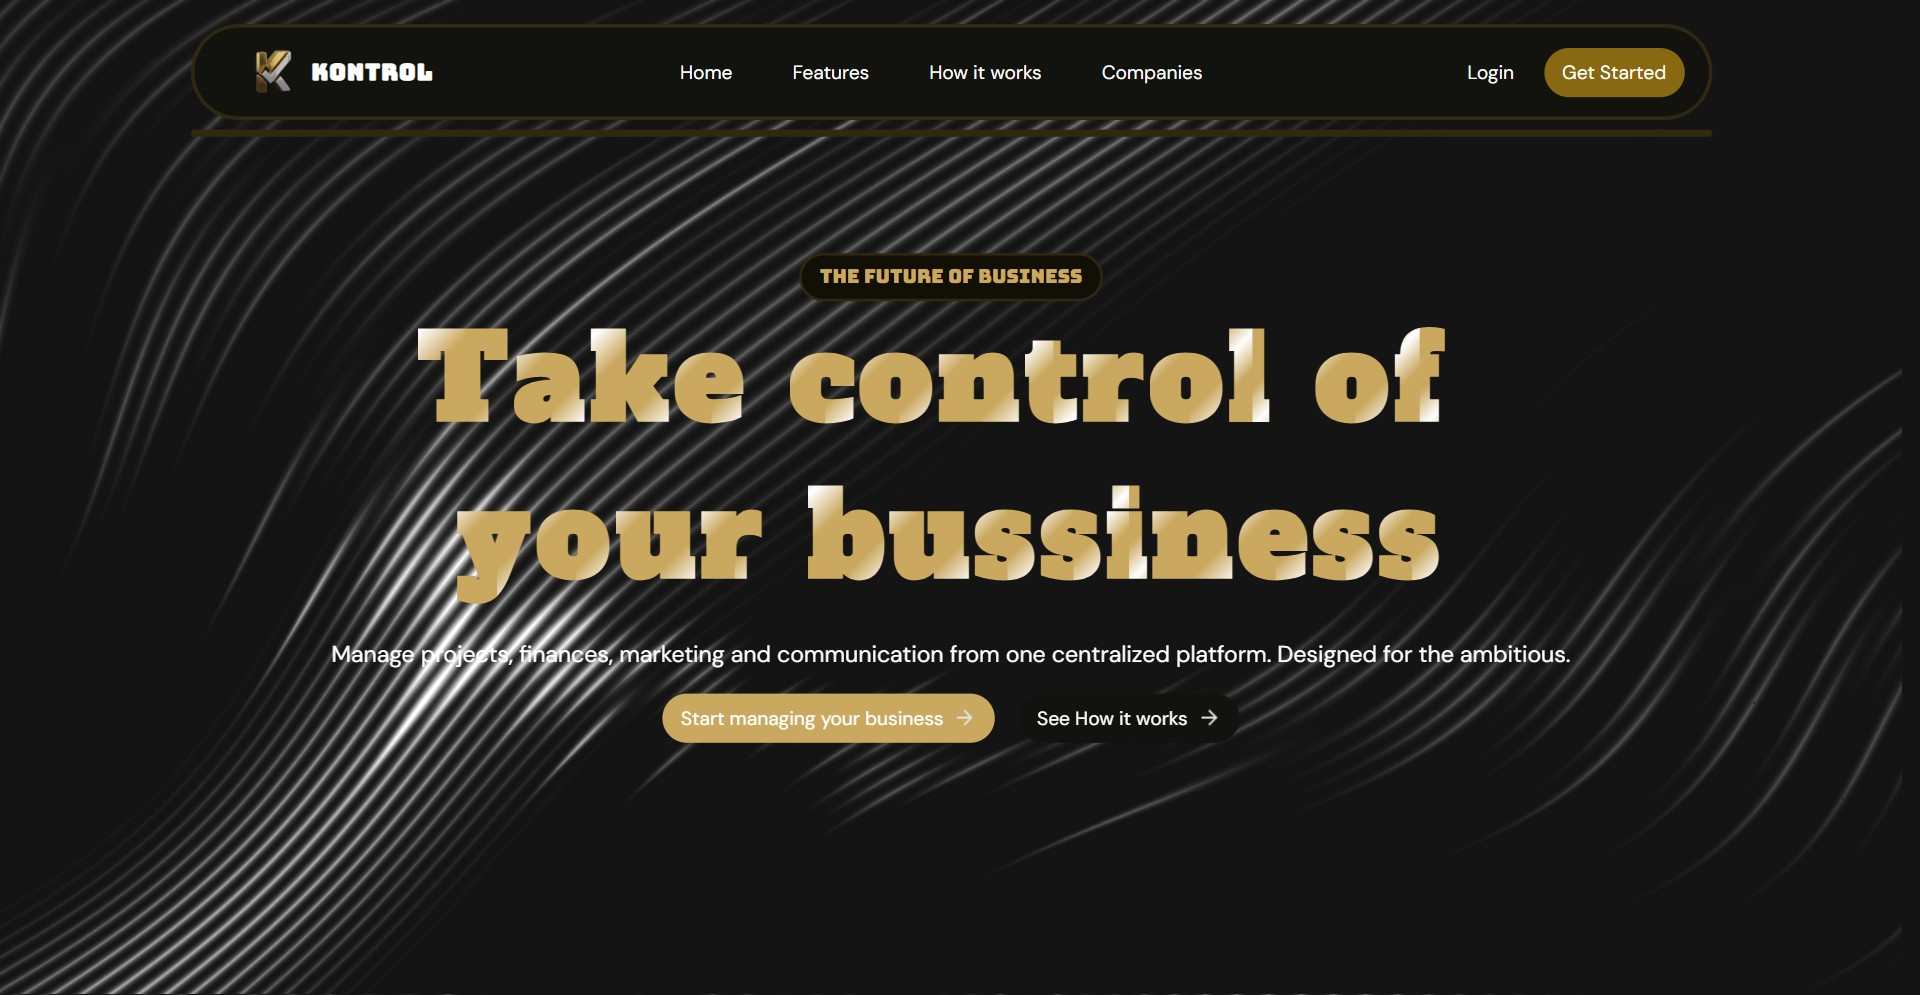
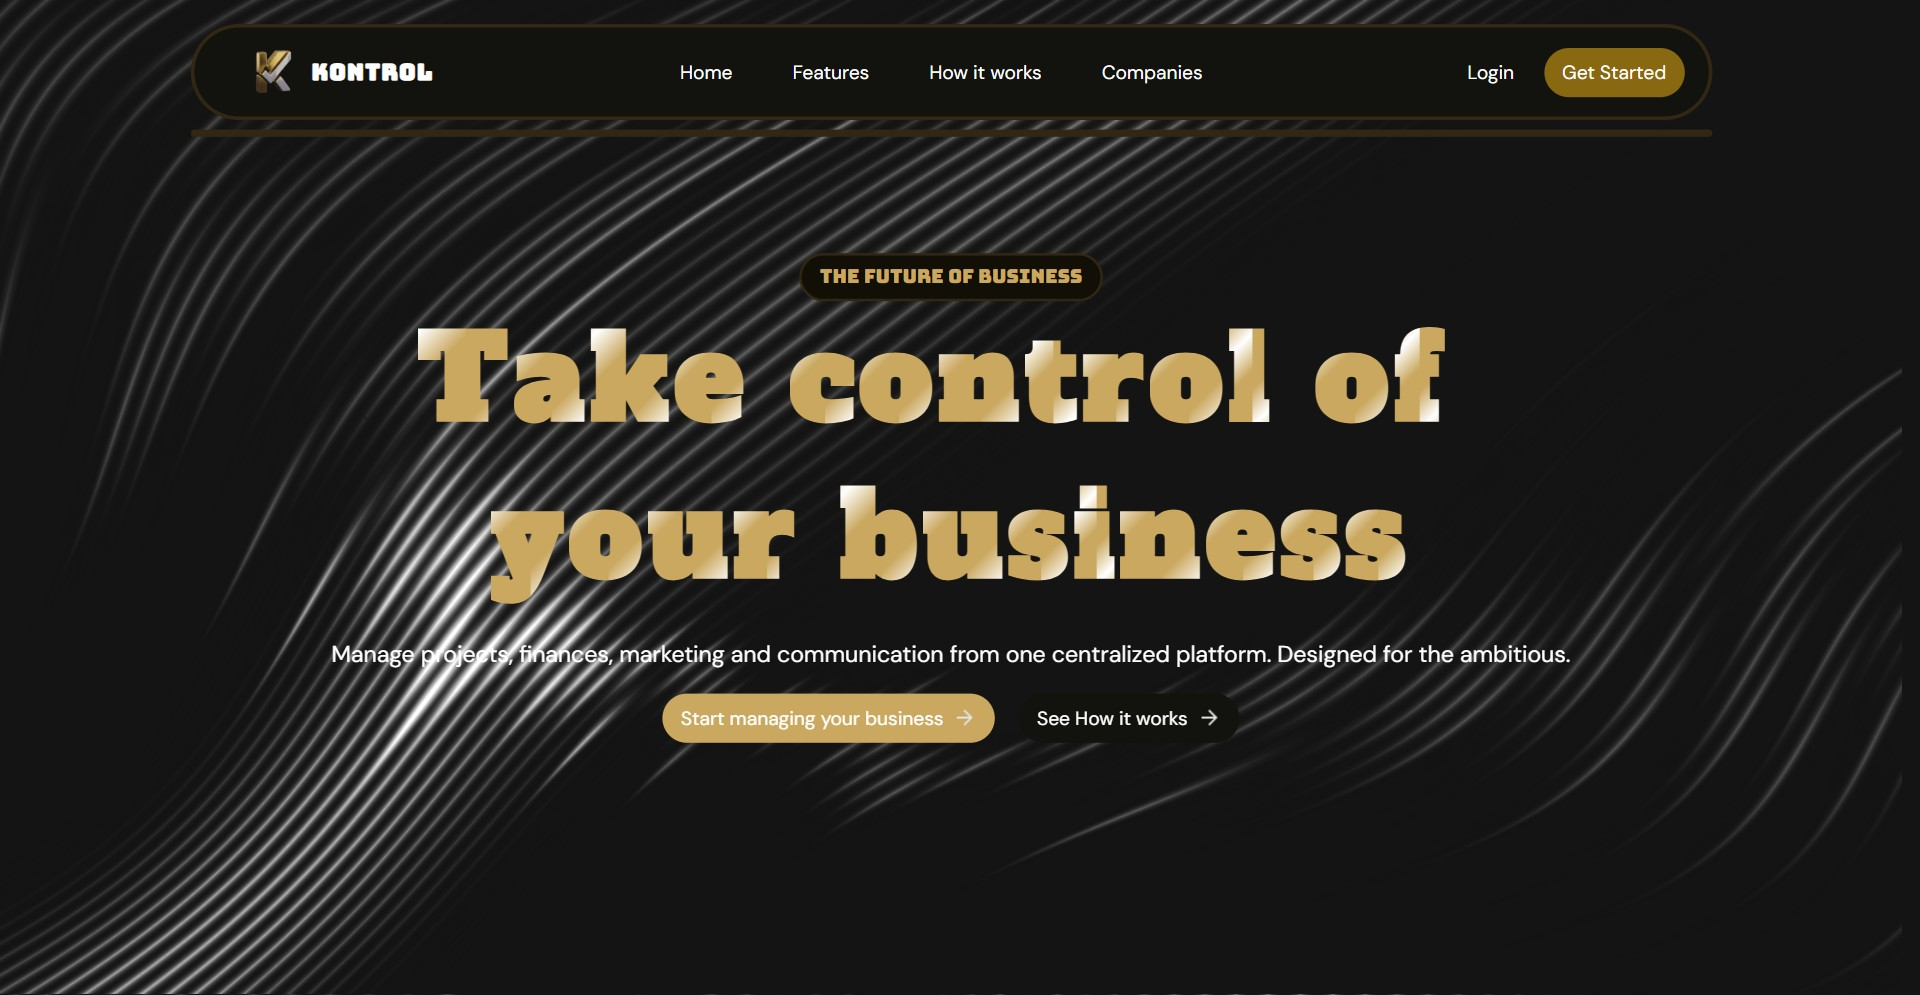
fix(presentacion): corrige «bussiness» en la captura de la landing v1
La captura se volvió a tomar del commit a1d70ee con la palabra corregida en
el título; el resto de la landing queda igual. La nota del presentador lo
indica.

Changed region(s): [[0.0, 0.4673, 0.75, 1.0]]

diff --git a/presentacion-kontrol/src/slides/cierre.js b/presentacion-kontrol/src/slides/cierre.js
@@ -134,7 +134,7 @@ export default [
     notes: `Deja la imagen dos segundos en silencio.
 «Este es el mismo producto: a la izquierda, la v1; a la derecha, la v2.»
 TRANSICIÓN (mirando a Ivana): «¿Está listo para el mercado?»
-Imágenes: landing de la v1 (commit a1d70ee, cierre de IS1, 31 de mayo) y de la v2 actual (main).`,
+Imágenes: landing de la v1 (commit a1d70ee, cierre de IS1, 31 de mayo; se corrigió el «bussiness» del título antes de capturar) y de la v2 actual (main).`,
     html: `
       <div class="compare" data-in="zoom">
         <div class="cmp-img v2"><img src="media/capturas/v2.jpg" alt="" onerror="this.remove()"><div class="cmp-ph"><b>v2</b><span>media/capturas/v2.jpg</span></div></div>
